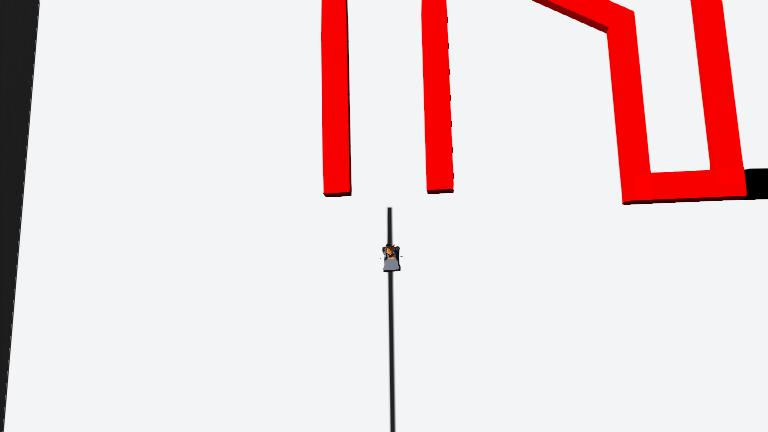
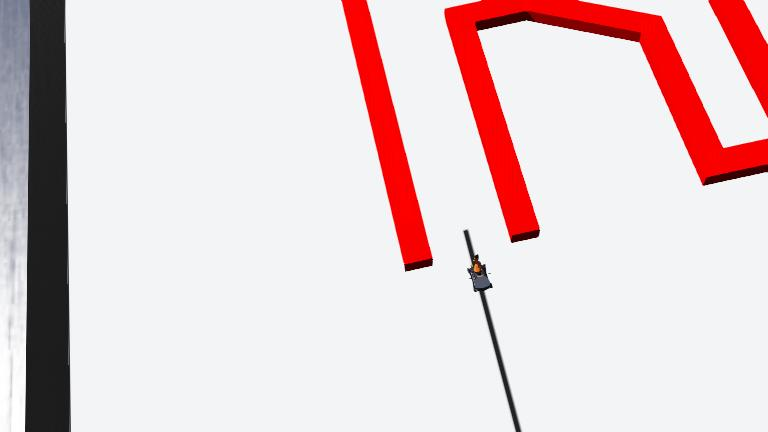
m

diff --git a/maze_solver/controllers/youbot_controller/youbot_controller.py b/maze_solver/controllers/youbot_controller/youbot_controller.py
@@ -205,7 +205,11 @@ def follow_line_pid():
 #######################################################
 #HRAYR'S FUNCTION
 
-SAFE_DISTANCE = 600 
+SAFE_DISTANCE = 500
+
+# Constants for maintaining straight path (you can adjust these values)
+BALANCE_THRESHOLD = 70  # Adjust this threshold as needed
+BALANCE_SPEED = 1.0  # Adjust the balancing speed as needed
 
 def maze_solver():
     print("Starting maze solving.")
@@ -215,23 +219,44 @@ def maze_solver():
         left_dist = max(wall_sensors["w_left"].getValue(), 0)
         right_dist = max(wall_sensors["w_right"].getValue(), 0)
 
-        print(f"Front distance: {front_dist}, Left distance: {left_dist}, Right distance: {right_dist}")
+        print(f"Left distance: {left_dist},Front distance: {front_dist}, Right distance: {right_dist}")
 
         if front_dist > SAFE_DISTANCE:
-            print("Moving forward")
-            move_forward()
+            # Calculate the difference between left and right distances
+            diff = left_dist - right_dist
+
+            # Adjust wheel velocities to balance the distances
+            left_wheel_speed = 7.0
+            right_wheel_speed = 7.0
+            print(f"forward")
+
+            if diff > BALANCE_THRESHOLD:
+                left_wheel_speed -= BALANCE_SPEED
+                right_wheel_speed += BALANCE_SPEED
+                print(f"turn left")
+            elif diff < -BALANCE_THRESHOLD:
+                left_wheel_speed += BALANCE_SPEED
+                right_wheel_speed -= BALANCE_SPEED
+                print(f"turn right")
+            # Set balanced wheel velocities
+            set_wheel_velocity(left_wheel_speed, left_wheel_speed, right_wheel_speed, right_wheel_speed)
+            
         elif right_dist > SAFE_DISTANCE:
             print("Turning right11")
             turn_right()    
+            
         elif left_dist > SAFE_DISTANCE:
             print("Turning left11")
             turn_left() 
+            
         elif right_dist > left_dist:
             print("Turning right")
             turn_right()
+            
         elif left_dist > right_dist:
             print("Turning left")
             turn_left()
+            
         else:
             print("Turning around")
             turn_around()
@@ -244,43 +269,57 @@ def maze_solver():
 #HRAYR 2
 
 
-def adjust_to_wall():
+# def adjust_to_wall():
 
-    right_dist = wall_sensors["w_right"].getValue()
-    left_dist = wall_sensors["w_left"].getValue()
+    # right_dist = wall_sensors["w_right"].getValue()
+    # left_dist = wall_sensors["w_left"].getValue()
 
     # Target distance from the right wall
-    target_distance = 200  # Adjust this as needed
+    # target_distance = 200  # Adjust this as needed
 
     # Proportional gain for adjustment
-    Kp = 0.05
+    # Kp = 0.05
 
     # Calculate the difference from the target distance
-    difference = right_dist - target_distance
+    # difference = right_dist - target_distance
 
     # Calculate the adjustment value
-    adjustment = Kp * difference
+    # adjustment = Kp * difference
 
     # Adjust wheel speeds to maintain distance from the right wall
-    left_wheel_speed = 7.0 - adjustment
-    right_wheel_speed = 7.0 + adjustment
+    # left_wheel_speed = 7.0 - adjustment
+    # right_wheel_speed = 7.0 + adjustment
 
-    set_wheel_velocity(left_wheel_speed, right_wheel_speed, left_wheel_speed, right_wheel_speed)
+    # set_wheel_velocity(left_wheel_speed, right_wheel_speed, left_wheel_speed, right_wheel_speed)
 
     # Debug print
-    print(f"Adjusting to wall. Wheel speeds: Left: {left_wheel_speed}, Right: {right_wheel_speed}")
+    # print(f"Adjusting to wall. Wheel speeds: Left: {left_wheel_speed}, Right: {right_wheel_speed}")
 
 
 
 
 #######################################################
 def move_forward():
+    print(f"forward")
     set_wheel_velocity(10.0, 10.0, 10.0, 10.0)
 
 # Constants
 TURN_DURATION = 5 # Adjust this value based on trial and error
 TURN_SPEED = 7.0    # Adjust the turning speed as needed
 
+# Constants for slight turns
+SLIGHT_TURN_DURATION = 3  # Adjust this value based on trial and error
+SLIGHT_TURN_SPEED = 3.0    # Adjust the turning speed as needed
+
+def slight_left_turn():
+    # Set wheels for a slight left turn while moving forward
+    set_wheel_velocity(10.0 - SLIGHT_TURN_SPEED, 10.0 + SLIGHT_TURN_SPEED, 10.0 - SLIGHT_TURN_SPEED, 10.0 + SLIGHT_TURN_SPEED)
+
+
+def slight_right_turn():
+    # Set wheels for a slight right turn while moving forward
+    set_wheel_velocity(10.0 + SLIGHT_TURN_SPEED, 10.0 - SLIGHT_TURN_SPEED, 10.0 + SLIGHT_TURN_SPEED, 10.0 - SLIGHT_TURN_SPEED)
+    
 def turn_left():
     # Set wheels to turn left
     set_wheel_velocity(TURN_SPEED, -TURN_SPEED, TURN_SPEED, -TURN_SPEED)
